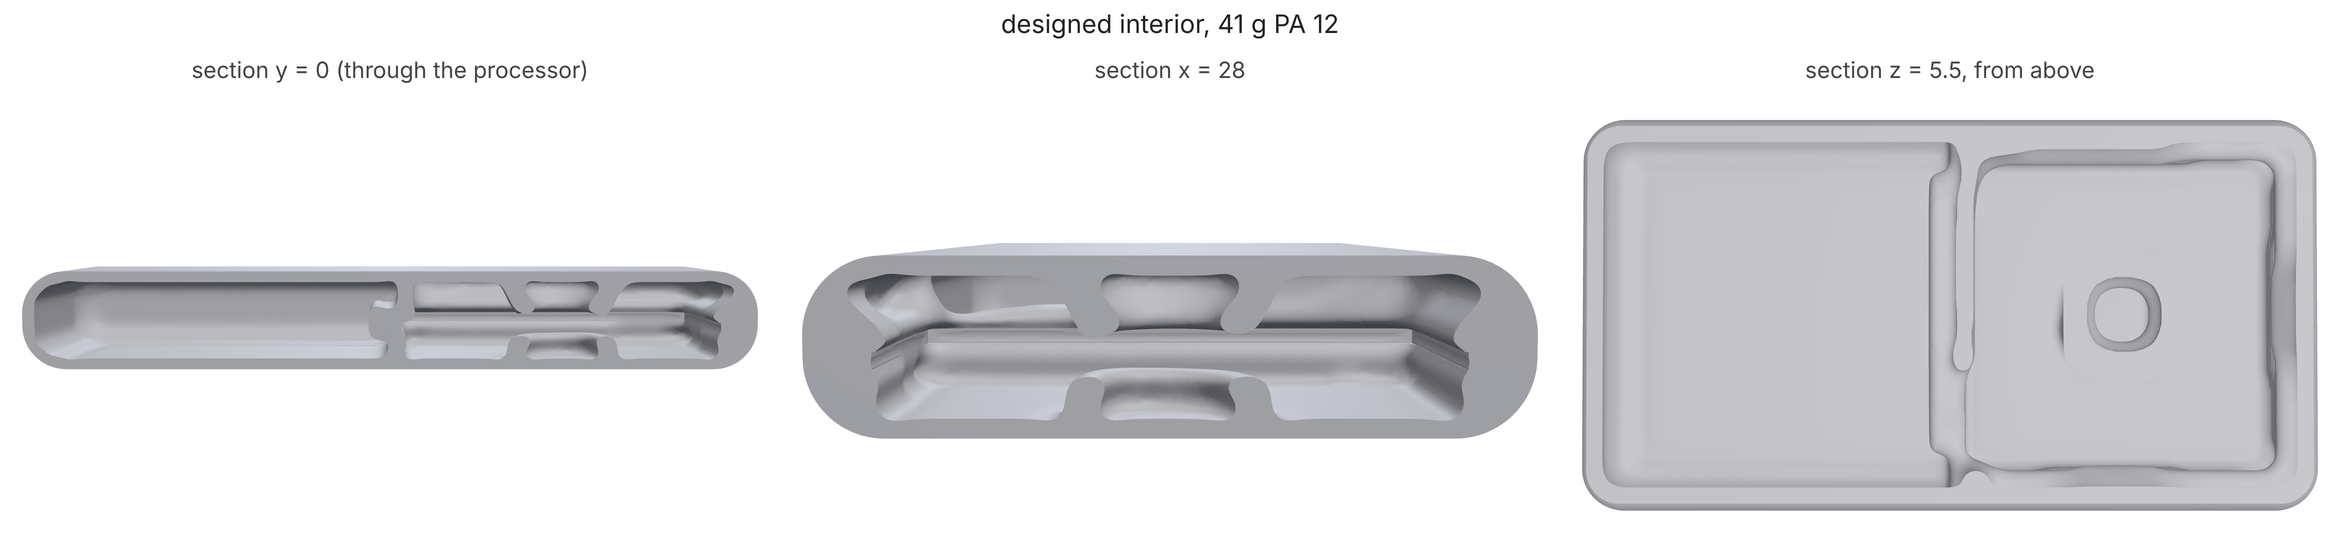
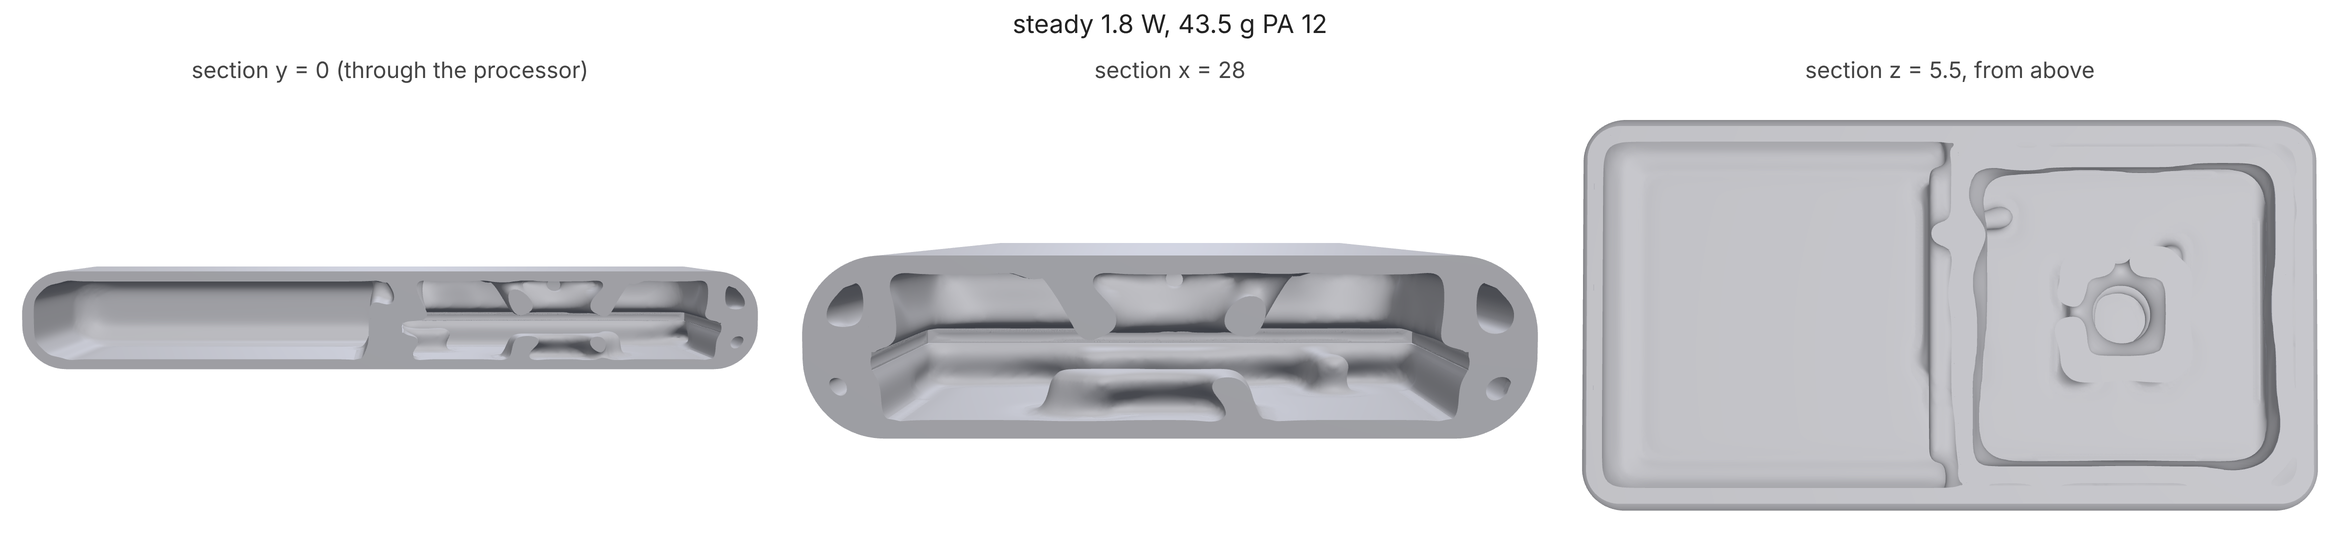
Cooling docs: how the model was checked, bursts and duty cycles, the handheld redesigned
The heated-sphere check and the outside-area error it found; cycles
(phases, starts, repeat) and their checks; the handheld redesigned with
the area fix, open air gaps and a 1 K margin: 43.5 g, delivered processor
65.1 C and skin 48.0 C (limits 70 / 48), back panel 0.023 mm under 20 N.
The burst design (idle, 5 min at 3.5 W, idle): 52.4 g, met on the design
and at 0.49 mm, 1.3 K over the touch limit at 0.35 mm with a 9% grid
change, written up as open.

Claude-Session: https://claude.ai/code/session_01HFwANW7ADjaAxshWJY2ybJ

diff --git a/docs/COOLING.md b/docs/COOLING.md
@@ -97,9 +97,64 @@ geometry that meets all of them with the least material.
 **Not modelled.** Contact resistance between a component and a printed pad
 on it (a thermal pad or paste is assumed: without one, a dry printed
 contact adds 1-10 K per W on a small chip), forced air, the hand as a heat
-sink, sunlight, and transients (`thermal.cycle` in thermal.py covers
-those for a plain part). The plastic's softening with temperature is in
-the `thermal` block, not here.
+sink and sunlight. The plastic's softening with temperature is in the
+`thermal` block, not here.
+
+## Bursts, charging and duty cycles
+
+A handheld product is rarely at a steady load. It idles, then runs a game
+or a video call for a few minutes, or charges for an hour. Its parts and
+its plastic hold heat, so a five-minute burst at twice the steady power can
+peak lower than the steady state would. Designing for the steady state at
+the burst's power asks for far more than the product needs, or for
+something no interior can do. A `cycle` says how power changes over time:
+
+```json
+"cycle": {"phases": [
+  {"seconds": 60,  "watts": {"soc": 0.3, "pmic": 0.1}, "steps": 1},
+  {"seconds": 300, "watts": {"soc": 3.0, "pmic": 0.5}, "steps": 15},
+  {"seconds": 300, "watts": {"soc": 0.3, "pmic": 0.1}, "steps": 10}]}
+```
+
+Each phase lists the watts that change (other components keep their
+`watts`). The run starts from the steady state of the first phase (`start:
+"ambient"` starts cold), or with `repeat: true` it is the repeating state
+of the phases, run `cycles` times (default 3) from the steady state at the
+mean power and read on the last. Every limit holds at each point's hottest
+moment: the processor's peak at the end of the burst, the outside's a while
+later, as the heat reaches it. The report gives each peak and when it
+happens (`peakAt`, seconds).
+
+The model is backward Euler on the same conduction system with a lumped
+heat capacity per node: the material's density times its card's specific
+heat in each designed cell (in proportion to its density, the rest is
+air), each component's `heatCapacity` (J/K; default 1.8 J/(cm^3 K) times
+its volume, about right for silicon, board and a lithium cell), air at
+1.2 J/(L K). Each step length is factored once, and the adjoint runs back
+through every step on the same factors, so the gradient of the hottest
+moment is exact (tests/test_cooling.py checks it against finite
+differences to 1e-3, and a near-isothermal box heating up against
+W/(hA)(1 - e^(-t/tau)) to 1.5% at 40 steps).
+
+## How it was checked
+
+- **A heated sphere in a shell.** A 1 W sphere (4 mm) at the centre of a
+  PA 12 ball (20 mm) losing heat at h has an exact answer:
+  W/(4 pi k)(1/a - 1/b) + W/(4 pi b^2 h). This found a real error. A grid's
+  stepped outside has |nx| + |ny| + |nz| times the area of the surface it
+  follows, 1.5 times on a sphere, and the outside read a third too cool,
+  at every grid size. Each outside face now convects over the true surface
+  it stands for (1 / (|nx| + |ny| + |nz|) of a face, the normal from the
+  exterior's distance field). The ball's outside now reads within 1% and
+  the centre within 3% at 0.5 mm (`tests/test_cooling.py`). Flat faces are
+  unchanged; the handheld's rounded edges read about 1 K warmer than
+  before the fix, and the example below was designed again with it.
+- **Heat balance.** All the heat leaves through the outside and the vents
+  (to 1e-4 W without vents, 0.2% with them).
+- **Gradients.** The adjoint matches central finite differences, steady
+  and over a cycle.
+- **Grids.** The delivered part is read on two finer grids than it was
+  designed on (below).
 
 ## Checks
 
@@ -123,69 +178,96 @@ power have to change, and those are the designer's to decide.
 ## Example: a handheld device
 
 `examples/cooling/handheld.py`: a generic 120 x 64 x 16 mm handheld with
-rounded edges, MJF PA 12, a 1.5 mm skin. A board carries a 1.5 W processor
-and a 0.3 W power chip (both under 70 C); a battery under the board must
-stay under 45 C; the outside under 48 C (held); a 30 C room. A 30 N squeeze
-across the width must close it by no more than 0.15 mm.
+rounded edges, MJF PA 12, a 1.5 mm skin. A board at one end carries a
+1.5 W processor and a 0.3 W power chip (both under 70 C); the battery
+beside it must stay under 45 C; the outside under 48 C (held); a 25 C
+room.
 
 Read before anything is designed (`--baseline`, 1 mm cells):
 
 | interior | processor | power chip | battery | skin hot spot | skin mean |
 |---|---|---|---|---|---|
-| bare skin (parts in still air) | 92.3 C (limit 70) | 88.1 C | 29.9 C | 51.0 C (limit 48) | 33.6 C |
-| filled solid | 53.7 C | 48.9 C | 33.2 C | 46.2 C | 33.6 C |
+| bare skin (parts in still air) | 93.3 C (limit 70) | 89.1 C | 30.1 C | 51.4 C (limit 48) | 34.4 C |
+| filled solid | 54.9 C | 50.0 C | 33.9 C | 47.1 C | 34.4 C |
 
-Bare, the processor is 22 K over its limit and the skin over it is 3 K
+Bare, the processor is 23 K over its limit and the skin over it is 3 K
 over the touch limit. Filled solid, both are met, at 89.6 cm^3 of PA 12
 inside. The skin's mean is the same either way: W / (h A).
 
-Designed on 0.7 mm cells (90 iterations, 31 min on the 4-core cloud box,
-`--pitches 0.7 --iterations 90`), the interior is 17% of the design space:
-pads off the processor and power chip that spread into a thin liner under
-the skin over the board, and almost nothing at the battery end. 41.1 cm^3
-in all (skin included), 41.5 g of PA 12.
+Designed on 0.7 mm cells (90 iterations, 32 min on the 4-core cloud box,
+`--pitches 0.7 --iterations 90`, aiming 1 K under each limit: `margin`),
+the interior is 23% of the design space: pads off the processor and power
+chip that spread into a thin liner under the skin over the board, and
+almost nothing at the battery end. 43.5 g of PA 12 in all, skin included.
 
 ![handheld sections](images/cooling/handheld-sections.png)
 
 | reading | processor | power chip | battery | skin hot spot |
 |---|---|---|---|---|
-| design (0.7 mm) | 70.0 C | 64.2 C | 33.2 C | 48.0 C |
-| black and white (0.7 mm) | 69.4 C | 63.6 C | 33.3 C | 48.3 C |
-| delivered STL, 0.49 mm | 64.4 C | 59.9 C | 32.0 C | 47.9 C |
-| delivered STL, 0.35 mm | 65.9 C | 60.6 C | 33.5 C | 47.9 C |
+| design (0.7 mm) | 69.0 C | 63.0 C | 35.2 C | 47.0 C |
+| black and white (0.7 mm) | 68.3 C | 62.4 C | 35.2 C | 47.3 C |
+| delivered STL, 0.49 mm | 63.6 C | 59.0 C | 33.5 C | 47.8 C |
+| delivered STL, 0.35 mm | 65.1 C | 59.7 C | 34.8 C | 48.0 C |
 
 Every limit is met on the delivered part. The two delivered grids agree
-within 3.6% of each temperature rise on the processor and exactly on the
-skin hot spot (the battery's rise is small, so its 1.5 K reads as 17%).
-The delivered part reads cooler than the design because meshing joins the
-pads to the skin and parts the design touched only with grey cells.
+within 3.8% of each temperature rise on the processor and 0.8% on the skin
+hot spot (the battery's rise is small, so its 1.3 K reads as 14%). The
+skin reads 1 K warmer delivered than designed, at the foot of the pad
+under the board on the back: the margin is that 1 K.
 
 **Design on 0.7 mm, not 1 mm.** The same study designed on 1 mm cells met
-its limits there and read 3-4 K hot at 0.5 mm (processor 73.7 C, skin
-up to 48.5 C): the processor is 1.2 mm thick, the board 1.6 mm and the gaps
-around them under a cell, and a 1 mm grid conducts across them more than
-they do. 0.5 and 0.35 mm agreed within 1% on the processor.
+its limits there and read 3-4 K hot at 0.5 mm: the processor is 1.2 mm
+thick, the board 1.6 mm and the gaps around them under a cell, and a 1 mm
+grid conducts across them more than they do. 0.5 and 0.35 mm agreed
+within 1% on the processor.
 
 **Combined with a structural target.** `--press` adds a feel target: the
 back panel under a 20 N thumb press in its middle closes by no more than
-0.1 mm. The bare skin closes 0.56 mm. Designed together on 0.7 mm cells
-(90 iterations, 54 min), the press never bound: the liner the heat needs
-under the skin over the board is also what stiffens the panel, to 0.036 mm
-(0.035 black and white). The run delivered the same part as cooling alone
-(41.4 g; processor 66.0 C, skin 47.9 C at 0.35 mm), and the cooling-only
-design reads the same 0.036 mm. A target that is met for free costs
+0.1 mm. The bare skin closes 0.56 mm. The press never binds: the liner the
+heat needs under the skin over the board is also what stiffens the panel,
+to 0.023 mm on this design. A target that is met for free costs
 nothing; it is there so a change to the layout that thins the liner cannot
 quietly make the panel creak. `tests/test_cooling.py` has a case where the
 grip does bind (a squeeze across a small box).
 
-## Two lessons from building it
+**Designed for a burst.** `--burst` designs the same handheld for how it
+is used instead: idling at 0.4 W, five minutes at 3.5 W (a game, a call,
+a recording), then idle again, the battery holding 45 J/K. Held steady at
+3.5 W no interior meets the limits: the outside averages 16.5 K over the
+room, and filled solid the hot spot reads 68 C. Over the burst a filled
+interior peaks at 56.5 C on the processor and 43.5 C outside (1 mm), and
+the bare skin at 108 C and 48.5 C, so the interior has work to do.
+Designed on 0.7 mm cells (90 iterations, 3.1 h: each iteration is 26 time
+steps forward and back):
+
+| reading | processor (at 360 s) | power chip | battery | skin hot spot |
+|---|---|---|---|---|
+| design (0.7 mm) | 69.0 C | 57.7 C | 28.8 C | 46.9 C |
+| black and white (0.7 mm) | 68.4 C | 57.1 C | 28.8 C | 48.3 C |
+| delivered STL, 0.49 mm | 61.7 C | 52.4 C | 28.3 C | 47.1 C |
+| delivered STL, 0.35 mm | 65.2 C | 54.3 C | 28.8 C | 49.3 C |
+
+52.4 g, 38% of the design space: twice the power for five minutes takes
+more material than the steady 1.8 W (43.5 g), not less, and the part
+meets a load no steady design could. The finest read misses the touch
+limit by 1.3 K, and the two delivered grids differ by 9% of the rise (3.8%
+for the steady design), so this result is not settled: the delivered
+reading on a third grid, and why 0.49 mm reads cool on both designs, are
+the next things to check.
+
+
+## Lessons from building it
 
 - A part whose interior lines the whole inside of a closed skin encloses
   that interior as one cavity, and reconstruct used to drop the cavity's
   surface with the small bodies (decompose() gives a cavity a negative
   volume) and deliver the part solid. Fixed on main (32b8293); a closed
   exterior's delivered volume is worth a glance against the design's.
+- The mesher's closing filled slots under 2 mm as too narrow to print. In
+  a cooling part an air gap is the design: the handheld's mesh bridged a
+  1.4 mm gap between a pad under the board and the back skin, 2 g more
+  and the back 0.5 K over its limit. Cooling parts mesh without it.
 - The touch limit is usually set by the exterior, not the interior: the
   skin's mean rise is W / (h A) whatever is inside, so at 1.8 W this
-  21,200 mm^2 exterior averages about 8.5 K over the room, and the interior can
-  only decide how far over that mean the hot spot sits.
+  21,200 mm^2 exterior averages about 8.5 K over the room, and the interior
+  can only decide how far over that mean the hot spot sits.

diff --git a/README.md b/README.md
@@ -384,9 +384,11 @@ under, a battery a lower one, and the surface a hand holds a touch limit
 watts and limit and designs the interior to meet all of them with the least
 material, together with any feel target. A generic 120 x 64 x 16 mm
 handheld in MJF PA 12 with a 1.5 W processor: bare, the processor reads
-92 C and the skin over it 51 C; designed on 0.7 mm cells, pads off the
-chips spread into a thin liner under the skin over the board, 17% of the
-inside, and the delivered mesh reads 66 C and 47.9 C.
+93 C and the skin over it 51 C; designed on 0.7 mm cells, pads off the
+chips spread into a thin liner under the skin over the board, 43.5 g in
+all, and the delivered mesh reads 65 C and 48.0 C. A `cycle` designs for
+how it is used (an idle, a five-minute burst at twice the power) instead
+of a steady load.
 ([docs/COOLING.md](docs/COOLING.md))
 
 <img src="docs/images/cooling/handheld-sections.png" width="760">
